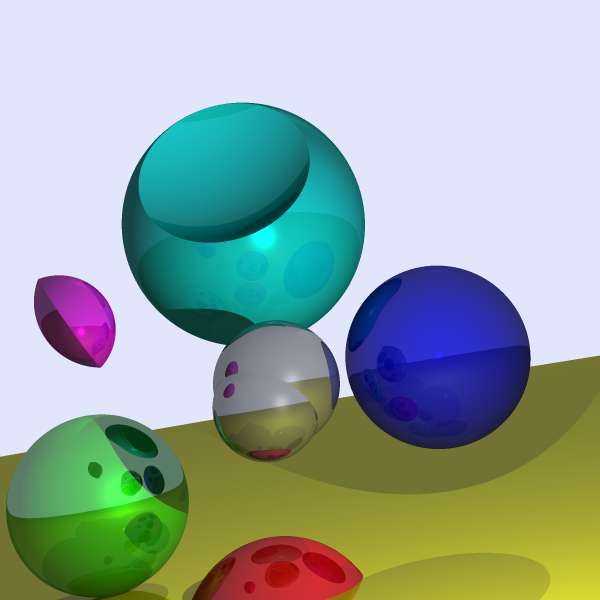
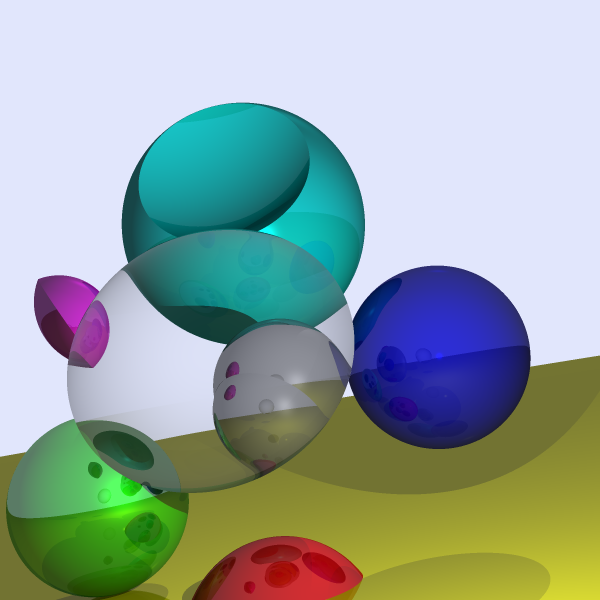
transparency and refraction

Changed region(s): [[0.09, 0.36, 0.6, 0.84], [0.36, 0.6, 0.39, 0.66], [0.15, 0.81, 0.18, 0.84]]

diff --git a/src/lib.rs b/src/lib.rs
@@ -7,6 +7,7 @@ use std::mem;
 use std::ops::RangeInclusive;
 
 pub(crate) const EPS: f64 = 0.001;
+pub(crate) const AIR_REFRACTION_INDEX: f64 = 1.0;
 
 pub struct Canvas {
     width: u16,
@@ -93,7 +94,7 @@ impl Canvas {
         for i in 0..n {
             for j in 0..n {
                 let ray = scene.canvas_to_viewport(x * n + i, y * n + j, self.width * n, self.height * n);
-                color = color + scene.trace_ray(&ray, 1.0..=f64::INFINITY, depth);
+                color = color + scene.trace_ray(&ray, AIR_REFRACTION_INDEX, 1.0..=f64::INFINITY, depth);
             }
         }
         self.set_pixel(x, y, color * (1. / (n * n) as f64));
@@ -174,23 +175,65 @@ impl Scene {
         result
     }
 
-    pub fn trace_ray(&self, ray: &Ray, t_range: RangeInclusive<f64>, depth: u32) -> Color {
+    fn container_hit_test(&self, ray: &Ray, t_range: &RangeInclusive<f64>) -> Option<HitTestResult> {
+        let mut result: Option<HitTestResult> = None;
+
+        for object in self.objects.iter() {
+            if let Some(r) = object.hit_test(ray, &t_range) {
+                if r.normal.dot(&ray.direction) <= 0. {
+                    continue;
+                }
+                if result.is_none() {
+                    result = Some(r)
+                } else if r.t < result.unwrap().t {
+                    result = Some(r)
+                }
+            }
+        }
+
+        result
+    }
+
+    pub fn trace_ray(&self, ray: &Ray, refraction_index: f64, t_range: RangeInclusive<f64>, depth: u32) -> Color {
         let result = self.hit_test(ray, &t_range);
 
-        result.map_or(self.background, |mut hit| {
-            if hit.normal.dot(&ray.direction) > 0. {
-                hit.normal = - hit.normal;
-            }
-            let local_color: Color = hit.material.color * self.compute_lighting(&hit.point, &hit.normal, &(-ray.direction), hit.material.specular);
-            if depth == 0 || hit.material.reflective <= 0. {
-                local_color
+        result.map_or(self.background, |hit| {
+            let opaque_color = {
+                let local_color: Color = hit.material.color * self.compute_lighting(&hit.point, &hit.normal, &(-ray.direction), hit.material.specular);
+                if depth == 0 || hit.material.reflective <= 0. {
+                    local_color
+                } else {
+                    let reflected_ray = Ray {
+                        origin: hit.point,
+                        direction: hit.normal.reflect(&(-ray.direction))
+                    };
+                    let reflected_color = self.trace_ray(&reflected_ray, 1.0, EPS..=f64::INFINITY, depth - 1);
+                    local_color * (1. - hit.material.reflective) + reflected_color * hit.material.reflective
+                }
+            };
+            if depth == 0 || hit.material.transparency.is_none() {
+                opaque_color
             } else {
-                let reflected_ray = Ray {
-                    origin: hit.point,
-                    direction: hit.normal.reflect(&(-ray.direction))
+                let in_vector = ray.direction / ray.direction.length();
+                let going_outside_object = hit.normal.dot(&in_vector) > 0.;
+                let new_refraction_index = if going_outside_object {
+                    self.container_hit_test(&Ray { origin: hit.point, direction: ray.direction }, &(EPS..=f64::INFINITY))
+                    .map(|container_hit| container_hit.material.transparency)
+                    .flatten().unwrap_or(AIR_REFRACTION_INDEX)
+                } else {
+                    hit.material.transparency.unwrap()
                 };
-                let reflected_color = self.trace_ray(&reflected_ray, EPS..=f64::INFINITY, depth - 1);
-                local_color * (1. - hit.material.reflective) + reflected_color * hit.material.reflective
+                let normal = if going_outside_object { -hit.normal } else { hit.normal };
+                let cos = normal.dot(&in_vector);
+                let k = refraction_index / new_refraction_index;
+                let d = 1. - k * k * (1. - cos * cos);
+                if d < 0. {
+                    opaque_color
+                } else {
+                    let refraction_vector: Vector = (in_vector - normal * cos) * k - normal * d.sqrt();
+                    let p = cos.abs().sqrt();
+                    opaque_color * (1. - p) + self.trace_ray(&Ray { origin: hit.point, direction: refraction_vector }, new_refraction_index, EPS..=f64::INFINITY, depth - 1) * p
+                }
             }
         })
     }

diff --git a/src/bin/main.rs b/src/bin/main.rs
@@ -34,6 +34,7 @@ fn main() {
             color: Color::red(),
             specular: 500,
             reflective: 0.2,
+            transparency: None,
         },
     };
 
@@ -50,6 +51,7 @@ fn main() {
             color: Color::blue(),
             specular: 500,
             reflective: 0.2,
+            transparency: None,
         },
     };
 
@@ -66,6 +68,7 @@ fn main() {
             color: Color::green(),
             specular: 10,
             reflective: 0.4,
+            transparency: None,
         },
     };
 
@@ -86,6 +89,7 @@ fn main() {
             },
             specular: 1000,
             reflective: 0.2,
+            transparency: None,
         },
     };
 
@@ -120,6 +124,7 @@ fn main() {
             },
             specular: 50,
             reflective: 0.1,
+            transparency: None,
         },
     };
 
@@ -151,6 +156,7 @@ fn main() {
             },
             specular: 100,
             reflective: 0.2,
+            transparency: None,
         },
     };
 
@@ -182,6 +188,7 @@ fn main() {
             },
             specular: 20,
             reflective: 0.4,
+            transparency: None,
         },
     };
 
@@ -215,13 +222,33 @@ fn main() {
         1.5,
     );
 
+    let lense = BooleanOperationSpheresObject {
+        sphere_a: Sphere {
+            center: Point { x: 0.5, y: 1.0, z: -0.5 },
+            radius: 1.,
+        },
+        operation: BooleanOperation::INTERSECTION,
+        sphere_b: Sphere {
+            center: Point { x: 0.5, y: 1.5, z: -1.5 },
+            radius: 1.,
+        },
+        material: Material {
+            color: Color::black(),
+            transparency: Some(1.01),
+            reflective: 0.5,
+            specular: 100,
+        },
+    };
+
+    scene.add_object(Box::new(lense));
+
     // let t1 = std::time::SystemTime::now();
     // canvas.render(&scene, 3, 3);
     // let t2 = std::time::SystemTime::now();
     // println!("single thread render time: {:?}", t2.duration_since(t1));
 
     let t1 = std::time::SystemTime::now();
-    canvas.render_mth(&scene, 3, 3, 3);
+    canvas.render_mth(&scene, 3, 5, 3);
     let t2 = std::time::SystemTime::now();
     println!("multi thread render time: {:?}", t2.duration_since(t1));
     save_canvas_to(&canvas, r"./output.png");

diff --git a/src/objects.rs b/src/objects.rs
@@ -127,10 +127,17 @@ impl SceneObject for BooleanOperationSpheresObject {
             },
         };
 
-        for b in break_points {
+        for (i, b) in break_points.into_iter().enumerate() {
             if t_range.contains(&b.0) {
                 let point = ray.origin + ray.direction * b.0;
-                let normal: Vector = point - b.1.center;
+                let mut normal: Vector = point - b.1.center;
+                let flip = {
+                    let f = normal.dot(&ray.direction);
+                    if i % 2 == 1 { f < 0. } else { f > 0. }
+                };
+                if flip {
+                    normal = -normal;
+                }
                 return Some(HitTestResult {
                     t: b.0,
                     point,

diff --git a/src/components.rs b/src/components.rs
@@ -327,4 +327,5 @@ pub struct Material {
     pub color: Color,
     pub specular: i32,
     pub reflective: f64,
+    pub transparency: Option<f64>,
 }
